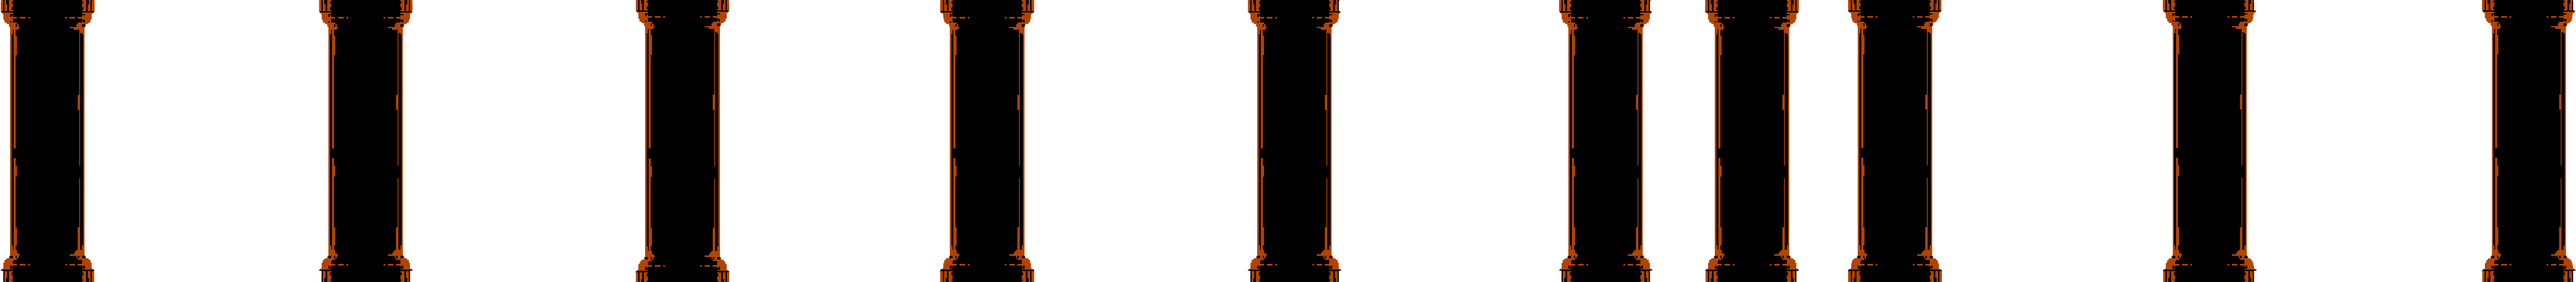
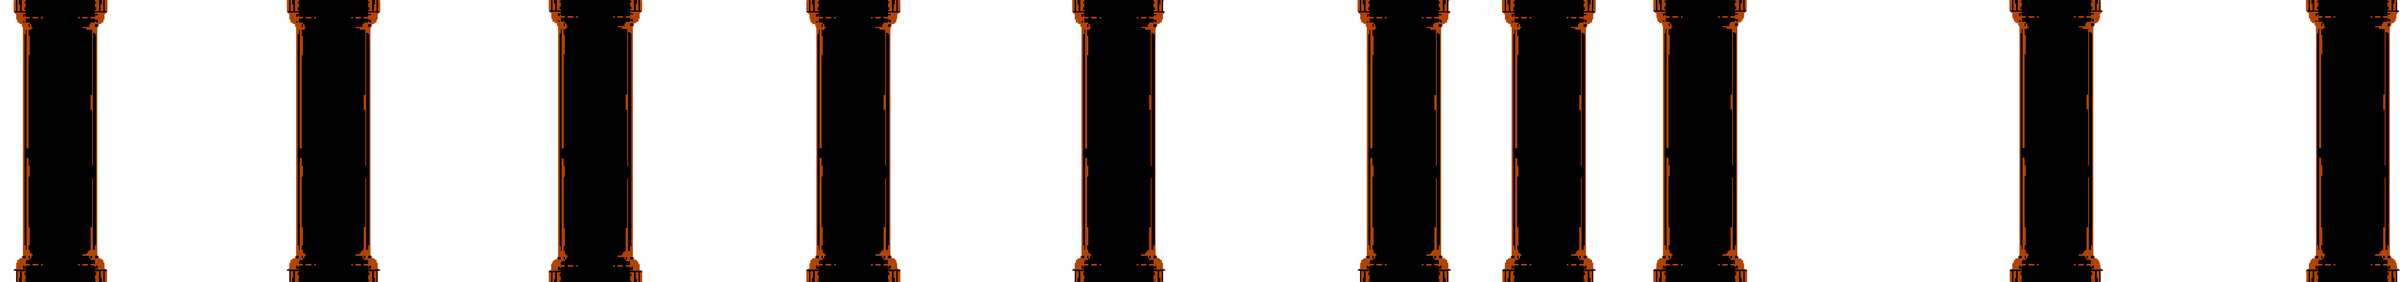
two

diff --git a/SpaceEngine-master/Space/MainScene.cpp b/SpaceEngine-master/Space/MainScene.cpp
@@ -27,10 +27,10 @@ void MainScene::Init()
 	ObjMgr->AddObject(new Save(Vec2(30, 560)), "Save");
 	ObjMgr->AddObject(new Player, "Player");
 	ObjMgr->AddObject(new sans(Vec2(0, -200)), "sans");
-	ObjMgr->AddObject(new Dialog(Vec2(2740, 450)), "Dialog");
+	ObjMgr->AddObject(new Dialog(Vec2(2480, 450)), "Dialog");
 
 	ObjMgr->AddObject(new Solids(L"Painting/Solids/middle.png", Vec2(0, 344)), "Solids");
-	ObjMgr->AddObject(new Solids(L"Painting/Solids/width.png", Vec2(0, 702)), "Solids");
+	ObjMgr->AddObject(new Solids(L"Painting/Solids/middle.png", Vec2(0, 702)), "Solids");
 
 	m_Text = new TextMgr();
 	m_Text->Init(32, true, false, L"Determination Mono");
@@ -42,6 +42,10 @@ void MainScene::Init()
 	{
 		ObjMgr->AddObject(new Solids(L"Painting/Solids/Small.png", Vec2(-69, 420 + (i * 69))), "Solids");
 		ObjMgr->AddObject(new Solids(L"Painting/Solids/Small.png", Vec2(4200, 420 + (i * 69))), "Solids");
+	}
+	for (int i = 0; i < 15; i++)
+	{
+		ObjMgr->AddObject(new Solids(L"Painting/Solids/long.png", Vec2(141 + (i * 282), 702)), "Solids");
 	}
 	for (int i = 0; i < 15; i++)
 	{

diff --git a/SpaceEngine-master/Space/Player.cpp b/SpaceEngine-master/Space/Player.cpp
@@ -93,7 +93,6 @@ Player::Player()
 	m_Soul_Right->m_Visible = false;
 	m_Soul_Down->m_Visible = false;
 	m_Soul_Up->m_Visible = false;
-	Camera::GetInst()->Follow(this);
 }
 //-10 3590 333 560
 Player::~Player()
@@ -173,7 +172,9 @@ void Player::Move(float deltaTime, float Time)
 
 void Player::Update(float deltaTime, float Time)
 {
-	if (m_scene != scene::battlescene && m_Position.x>200)
+	if (m_Position.x < 270)
+		Camera::GetInst()->SetPos(270);
+	else if (m_scene != scene::battlescene)
 		Camera::GetInst()->Follow(this);
 
 	Left = false;

diff --git a/SpaceEngine-master/Space/sans.cpp b/SpaceEngine-master/Space/sans.cpp
@@ -24,7 +24,7 @@ void sans::Update(float deltaTime, float Time)
 			Pos = iter->m_Position;
 	}
 	if (SceneDirector::GetInst()->m_scene == scene::dialogscene)
-		m_Position = Vec2(Pos.x + 470, Pos.y+2);
+		m_Position = Vec2(Pos.x + 450, Pos.y+2);
 }
 
 void sans::Render()

diff --git a/SpaceEngine-master/Space/Camera.cpp b/SpaceEngine-master/Space/Camera.cpp
@@ -24,6 +24,11 @@ void Camera::Translate()
 
 }
 
+void Camera::SetPos(float x)
+{
+	m_Position.x = x - App::GetInst()->m_Width / 2;
+}
+
 void Camera::Follow(Object* obj)
 {
 	if (obj != nullptr)

diff --git a/SpaceEngine-master/Space/Camera.h b/SpaceEngine-master/Space/Camera.h
@@ -28,6 +28,7 @@ public:
 
 	void Init();
 	void Translate();
+	void SetPos(float x);
 	void Follow(Object* obj);
 	void Update(float deltaTime, float time);
 	void Render();
